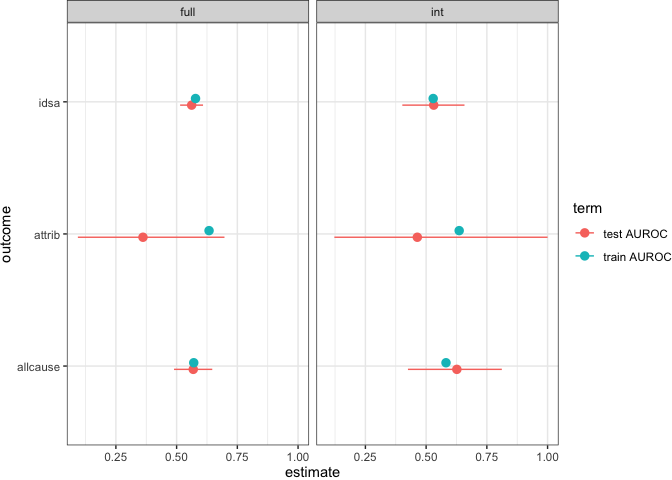
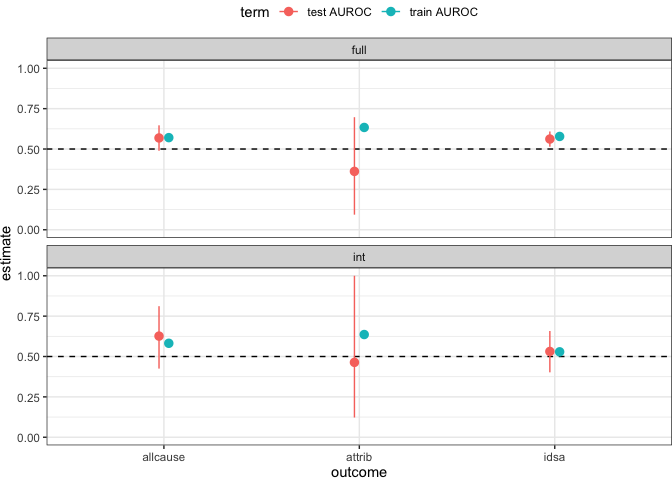
Plot 100x performance alongside temporal split

diff --git a/workflow/notebooks/temporal-split.md b/workflow/notebooks/temporal-split.md
@@ -88,8 +88,8 @@ nrow(metadat_int)
     ## [1] 456
 
 ``` r
-partitions_int <- bind_rows(compare_props(test_dat_int, train_dat_int, idsa), compare_props(test_dat_int, train_dat_int,
-    attrib), compare_props(test_dat_int, train_dat_int, allcause))
+partitions_int <- bind_rows(compare_props(test_dat_int, train_dat_int, idsa), compare_props(test_dat_int,
+    train_dat_int, attrib), compare_props(test_dat_int, train_dat_int, allcause))
 
 kable(partitions_int)
 ```
@@ -131,21 +131,21 @@ int_pctl(boots, perf) %>%
 
 | term              |    .lower | .estimate |    .upper | .alpha | .method    |
 |:------------------|----------:|----------:|----------:|-------:|:-----------|
-| Accuracy          | 0.5653846 | 0.6395604 | 0.7178571 |   0.05 | percentile |
-| AUC               | 0.4636811 | 0.5453071 | 0.6339229 |   0.05 | percentile |
+| Accuracy          | 0.6263736 | 0.6527473 | 0.7118132 |   0.05 | percentile |
+| AUC               | 0.3858542 | 0.5482830 | 0.7074321 |   0.05 | percentile |
 | Balanced_Accuracy | 0.5000000 | 0.5000000 | 0.5000000 |   0.05 | percentile |
 | cv_metric_AUC     | 0.5290527 | 0.5290527 | 0.5290527 |   0.05 | percentile |
-| Detection_Rate    | 0.1260989 | 0.5670330 | 0.6873626 |   0.05 | percentile |
-| F1                | 0.7218701 | 0.7722369 | 0.8150718 |   0.05 | percentile |
+| Detection_Rate    | 0.0000000 | 0.4615385 | 0.7118132 |   0.05 | percentile |
+| F1                | 0.7702703 | 0.7941331 | 0.8322043 |   0.05 | percentile |
 | Kappa             | 0.0000000 | 0.0000000 | 0.0000000 |   0.05 | percentile |
-| logLoss           | 0.6086511 | 0.6605414 | 0.7159512 |   0.05 | percentile |
-| Neg_Pred_Value    | 0.7252747 | 0.7252747 | 0.7252747 |   0.05 | percentile |
-| Pos_Pred_Value    | 0.5648352 | 0.6300366 | 0.6879121 |   0.05 | percentile |
-| prAUC             | 0.4600284 | 0.5085829 | 0.5651605 |   0.05 | percentile |
-| Precision         | 0.5648352 | 0.6300366 | 0.6879121 |   0.05 | percentile |
-| Recall            | 0.2250000 | 0.9000000 | 1.0000000 |   0.05 | percentile |
-| Sensitivity       | 0.2250000 | 0.9000000 | 1.0000000 |   0.05 | percentile |
-| Specificity       | 0.0000000 | 0.1000000 | 0.7750000 |   0.05 | percentile |
+| logLoss           | 0.6044091 | 0.6510782 | 0.6734921 |   0.05 | percentile |
+| Neg_Pred_Value    | 0.6373626 | 0.6373626 | 0.6373626 |   0.05 | percentile |
+| Pos_Pred_Value    | 0.6263736 | 0.6593407 | 0.7126374 |   0.05 | percentile |
+| prAUC             | 0.4294569 | 0.5200346 | 0.6441402 |   0.05 | percentile |
+| Precision         | 0.6263736 | 0.6593407 | 0.7126374 |   0.05 | percentile |
+| Recall            | 0.0000000 | 0.7000000 | 1.0000000 |   0.05 | percentile |
+| Sensitivity       | 0.0000000 | 0.7000000 | 1.0000000 |   0.05 | percentile |
+| Specificity       | 0.0000000 | 0.3000000 | 1.0000000 |   0.05 | percentile |
 
 ## Plot performance
 
@@ -153,11 +153,13 @@ int_pctl(boots, perf) %>%
 perf_dat <- read_csv(here("results", "temporal-split", "performance_results.csv"))
 perf_temp_plot <- perf_dat %>%
     filter(term %in% c("cv_metric_AUC", "AUC")) %>%
-    mutate(term = case_when(term == "cv_metric_AUC" ~ "train AUROC", term == "AUC" ~ "test AUROC", TRUE ~ term)) %>%
+    mutate(term = case_when(term == "cv_metric_AUC" ~ "train AUROC", term == "AUC" ~
+        "test AUROC", TRUE ~ term)) %>%
     rename(estimate = .estimate, lower = .lower, upper = .upper) %>%
-    ggplot(aes(x = estimate, xmin = lower, xmax = upper, y = outcome, color = term)) + geom_vline(xintercept = 0.5, linetype = "dashed") +
-    geom_pointrange(position = position_dodge(width = 0.1)) + xlim(0, 1) + facet_wrap("dataset", ncol = 1) + coord_flip() +
-    theme_sovacool() + theme(legend.position = "top")
+    ggplot(aes(x = estimate, xmin = lower, xmax = upper, y = outcome, color = term)) +
+    geom_vline(xintercept = 0.5, linetype = "dashed") + geom_pointrange(position = position_dodge(width = 0.1)) +
+    xlim(0, 1) + facet_wrap("dataset", ncol = 1) + coord_flip() + theme_sovacool() +
+    theme(legend.position = "top")
 perf_temp_plot
 ```
 
@@ -168,21 +170,30 @@ perf_temp_plot
 ``` r
 perf_dat_100 <- data.table::fread(here("results", "performance_results_aggregated.csv")) %>%
     pivot_longer(c("cv_metric_AUC", "AUC"), names_to = "term", values_to = "estimate") %>%
-    mutate(term = case_when(term == "cv_metric_AUC" ~ "train AUROC", term == "AUC" ~ "test AUROC", TRUE ~ term))
+    mutate(term = case_when(term == "cv_metric_AUC" ~ "train AUROC", term == "AUC" ~
+        "test AUROC", TRUE ~ term))
 perf_100_plot <- perf_dat_100 %>%
-    ggplot(aes(x = estimate, y = outcome, color = term)) + geom_vline(xintercept = 0.5, linetype = "dashed") + geom_boxplot() +
-    xlim(0, 1) + facet_wrap("dataset", ncol = 1) + coord_flip() + theme_sovacool() + theme(legend.position = "top")
+    ggplot(aes(x = estimate, y = outcome, color = term)) + geom_vline(xintercept = 0.5,
+    linetype = "dashed") + geom_boxplot() + xlim(0, 1) + facet_wrap("dataset", ncol = 1) +
+    coord_flip() + theme_sovacool() + theme(legend.position = "top")
 perf_100_plot
 ```
 
 ![](figures/perf_100x-1.png)<!-- -->
+
+``` r
+cowplot::plot_grid(perf_temp_plot, perf_100_plot, nrow = 1)
+```
+
+![](figures/perf_temporal_vs_100-1.png)<!-- -->
 
 ## Computational resources
 
 ``` r
 bench_dat <- read_csv(here("results", "temporal-split", "benchmarks_results.csv"))
 bench_dat %>%
-    ggplot(aes(x = s, y = outcome, color = dataset)) + geom_point() + scale_x_time() + theme_sovacool()
+    ggplot(aes(x = s, y = outcome, color = dataset)) + geom_point() + scale_x_time() +
+    theme_sovacool()
 ```
 
 ![](figures/temporal-split_bench-1.png)<!-- -->
@@ -201,8 +212,8 @@ important_feats %>%
     mutate(otu = factor(otu, levels = important_feats %>%
         pull(otu) %>%
         unique())) %>%
-    ggplot(aes(x = perf_metric_diff, y = label_html, color = outcome, shape = dataset)) + geom_point() + theme_sovacool() +
-    theme(axis.text.y = ggtext::element_markdown())
+    ggplot(aes(x = perf_metric_diff, y = label_html, color = outcome, shape = dataset)) +
+    geom_point() + theme_sovacool() + theme(axis.text.y = ggtext::element_markdown())
 ```
 
 ![](figures/temporal-split_feat-imp-1.png)<!-- -->
